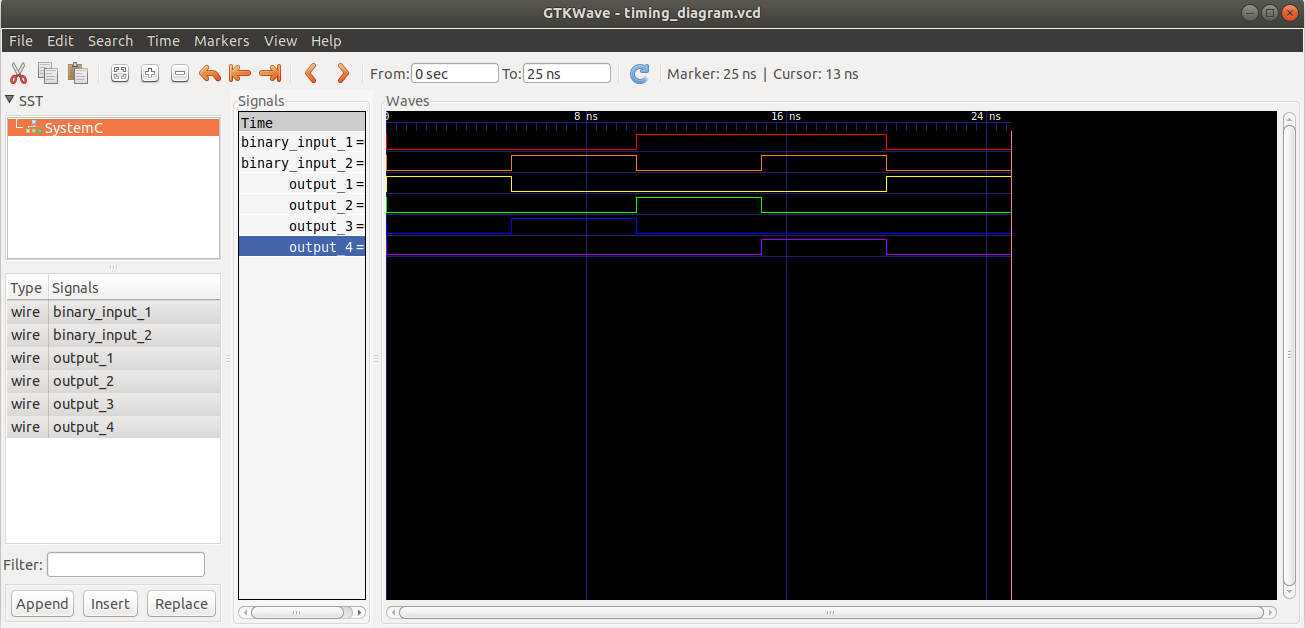
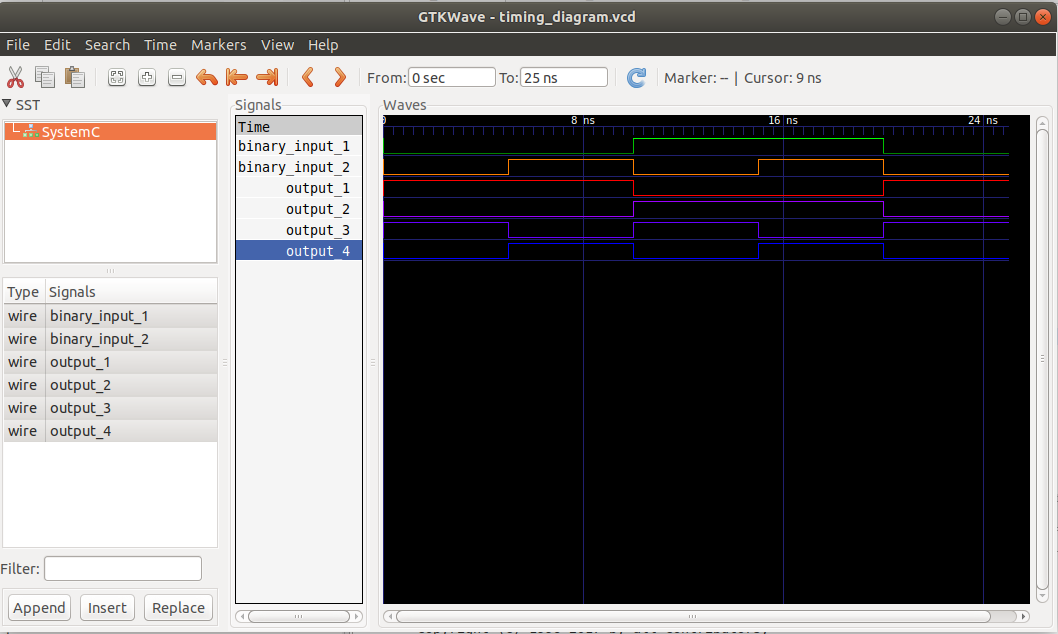
Implement decoder 2by4 using instances of decoder 1by2

Changed region(s): [[0.0, 0.0, 1.0, 1.0]]

diff --git a/decoder2by4/decoder_2by4.h b/decoder2by4/decoder_2by4.h
@@ -9,27 +9,40 @@
 #define DECODER_2BY4_H_
 #include<systemc.h>
 
+#include "../decoder1by2/decoder_1by2.h"
+
 SC_MODULE(decoder2by4) {
 //input and output ports
 	sc_in<bool> a, b;
 	sc_out<bool> c, d, e, f;
 
+	// Instances of decoder 1by2
+	decoder *dec_1;
+	decoder *dec_2;
+
 //constructor: where the processes are bound to simulation kernel
 	SC_CTOR(decoder2by4) {
 		SC_METHOD(decode);
 		sensitive<<a<<b;
-		//dont_initialize();
+
+		dec_1 = new decoder("dec_1by2_1");
+		dec_2 = new decoder("dec_1by2_2");
+
+		dec_1->a(a);
+		dec_2->a(b);
+
+		dec_1->b(c);
+		dec_1->c(d);
+
+		dec_2->b(e);
+		dec_2->c(f);
 	}
 
 	~decoder2by4() {
-//delete stuff :P
 	}
 
 	void decode(void) {
-		c = ( b==0 && a==0 )?1:0;
-		d = ( b==0 && a==1 )?1:0;
-		e = ( b==1 && a==0 )?1:0;
-		f = ( b==1 && a==1 )?1:0;
+
 	}
 };
 
